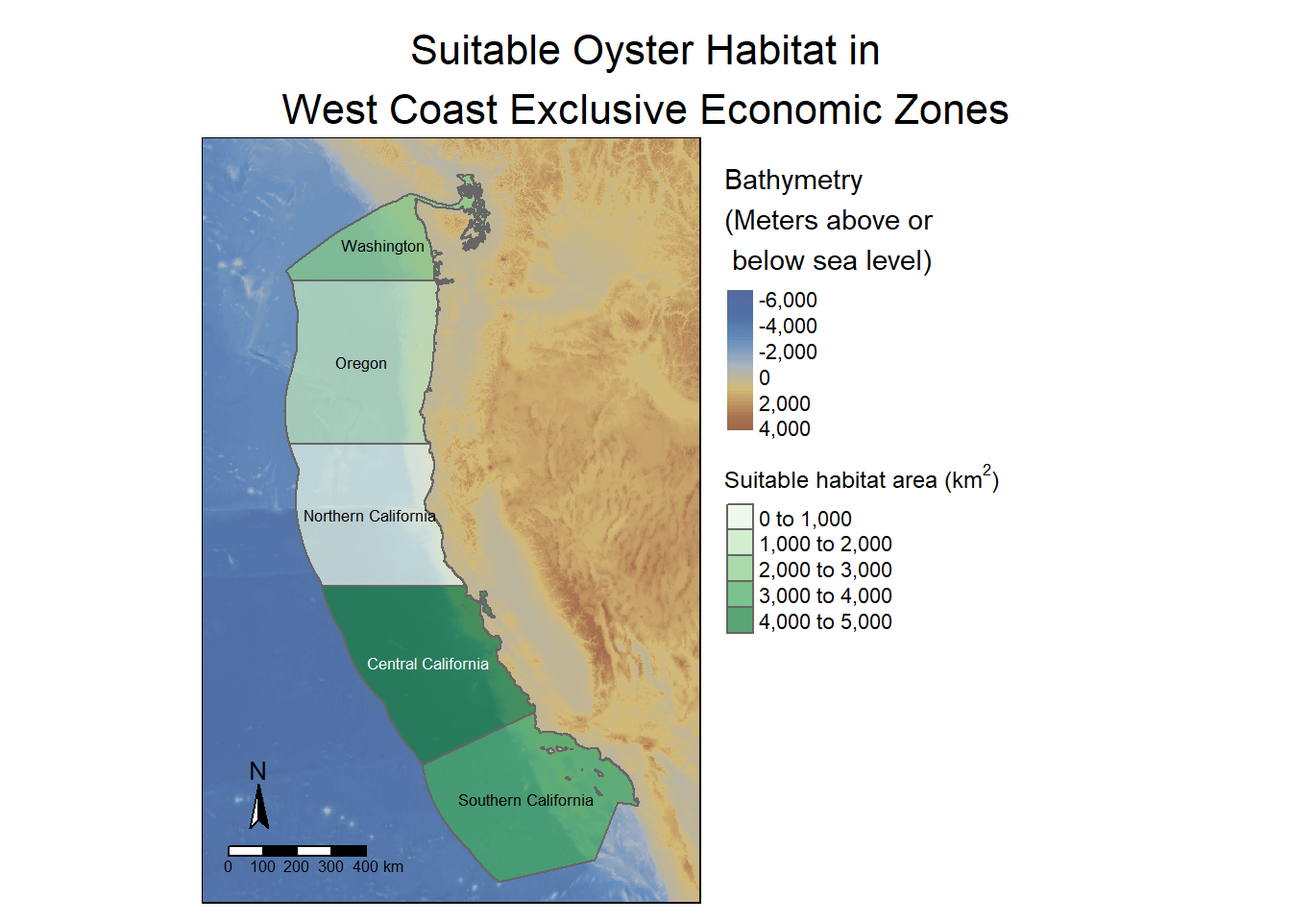
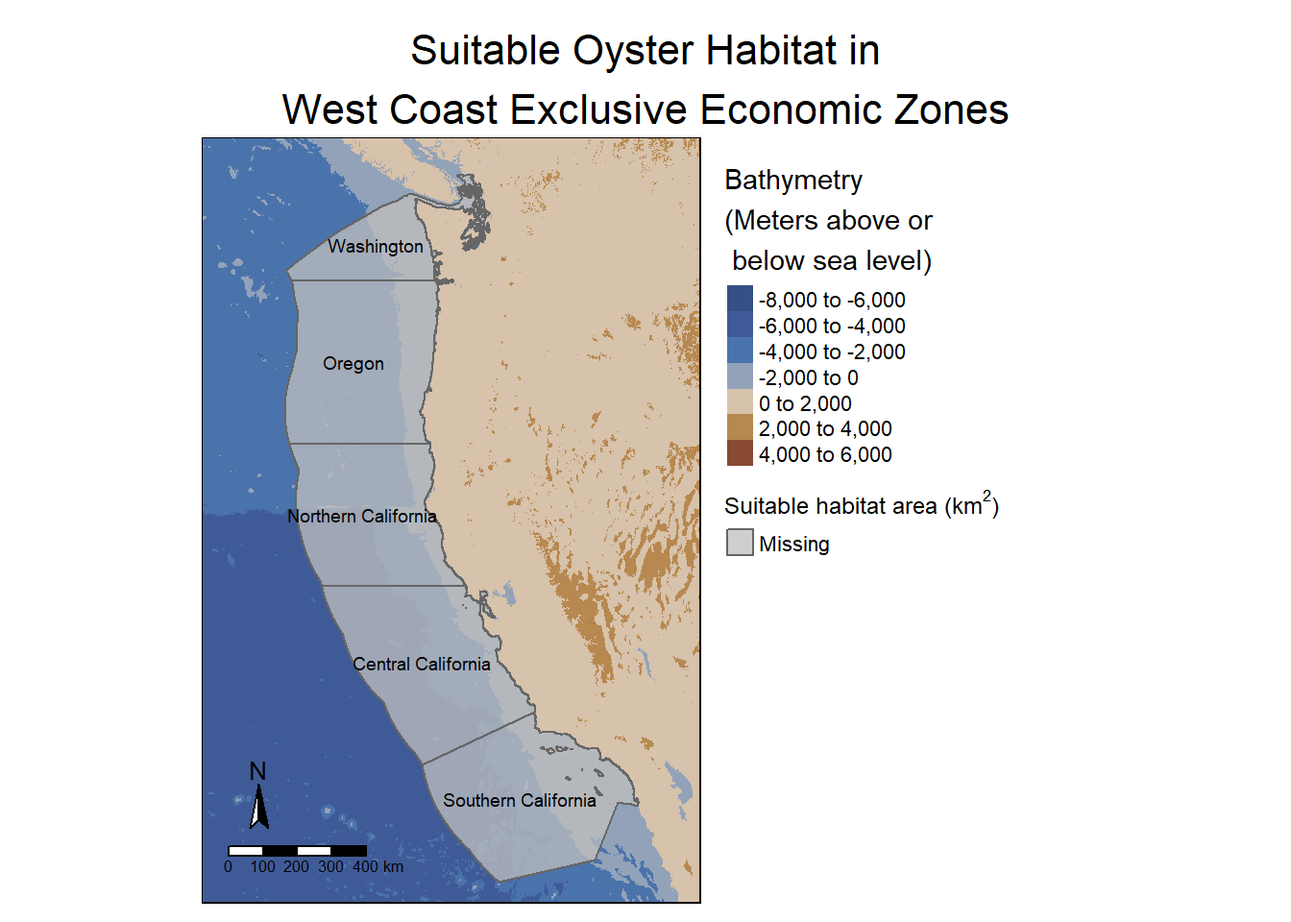
Finish function

Changed region(s): [[0.1562, 0.125, 0.7812, 1.0]]

diff --git a/HW4.html b/HW4.html
@@ -7,7 +7,7 @@
 <meta name="viewport" content="width=device-width, initial-scale=1.0, user-scalable=yes">
 
 <meta name="author" content="Stephen Carroll">
-<meta name="dcterms.date" content="2024-12-06">
+<meta name="dcterms.date" content="2024-12-15">
 
 <title>EDS 223: Homework 4</title>
 <style>
@@ -124,7 +124,7 @@ pre > code.sourceCode > span > a:first-child::before { text-decoration: underlin
     <div>
     <div class="quarto-title-meta-heading">Published</div>
     <div class="quarto-title-meta-contents">
-      <p class="date">December 6, 2024</p>
+      <p class="date">December 15, 2024</p>
     </div>
   </div>
   
@@ -184,16 +184,9 @@ pre > code.sourceCode > span > a:first-child::before { text-decoration: underlin
 <span id="cb3-9"><a href="#cb3-9" aria-hidden="true" tabindex="-1"></a><span class="co"># Add labels to the raster layers</span></span>
 <span id="cb3-10"><a href="#cb3-10" aria-hidden="true" tabindex="-1"></a><span class="fu">names</span>(sst_stack) <span class="ot">&lt;-</span> <span class="fu">c</span>(<span class="st">"sst2008"</span>, <span class="st">"sst2009"</span>, <span class="st">"sst2010"</span>, <span class="st">"sst2011"</span>, <span class="st">"sst2012"</span>)</span>
 <span id="cb3-11"><a href="#cb3-11" aria-hidden="true" tabindex="-1"></a></span>
-<span id="cb3-12"><a href="#cb3-12" aria-hidden="true" tabindex="-1"></a><span class="co"># Preliminary plot</span></span>
-<span id="cb3-13"><a href="#cb3-13" aria-hidden="true" tabindex="-1"></a><span class="fu">plot</span>(sst_stack)</span></code><button title="Copy to Clipboard" class="code-copy-button"><i class="bi"></i></button></pre></div>
+<span id="cb3-12"><a href="#cb3-12" aria-hidden="true" tabindex="-1"></a><span class="co"># # Preliminary plot</span></span>
+<span id="cb3-13"><a href="#cb3-13" aria-hidden="true" tabindex="-1"></a><span class="co"># plot(sst_stack)</span></span></code><button title="Copy to Clipboard" class="code-copy-button"><i class="bi"></i></button></pre></div>
 </details>
-<div class="cell-output-display">
-<div>
-<figure class="figure">
-<p><img src="HW4_files/figure-html/unnamed-chunk-3-1.png" class="img-fluid figure-img" width="672"></p>
-</figure>
-</div>
-</div>
 </div>
 </section>
 <section id="crs-check" class="level2">
@@ -235,7 +228,7 @@ pre > code.sourceCode > span > a:first-child::before { text-decoration: underlin
 <span id="cb5-12"><a href="#cb5-12" aria-hidden="true" tabindex="-1"></a>})</span></code><button title="Copy to Clipboard" class="code-copy-button"><i class="bi"></i></button></pre></div>
 </details>
 <div class="cell-output cell-output-stdout">
-<pre><code>Test passed 😸</code></pre>
+<pre><code>Test passed 🥳</code></pre>
 </div>
 </div>
 </section>
@@ -307,14 +300,6 @@ pre > code.sourceCode > span > a:first-child::before { text-decoration: underlin
 <ul>
 <li>sea surface temperature: 11-30°C</li>
 <li>depth: 0-70 meters below sea level</li>
-</ul>
-<p>Dungeness Crabs</p>
-<ul>
-<li>sea surface temperature 3°C - 19°C, preferred 9°C
-<ul>
-<li>5.8 - 9.8, mean 7.8</li>
-</ul></li>
-<li>depth: 0 - 360 meters below sea level</li>
 </ul>
 <p>Reclassify SST and depth data into locations that are suitable for oysters</p>
 <div class="cell">
@@ -475,20 +460,150 @@ pre > code.sourceCode > span > a:first-child::before { text-decoration: underlin
 <div class="cell">
 <details class="code-fold">
 <summary>Code</summary>
-<div class="sourceCode cell-code" id="cb17"><pre class="sourceCode r code-with-copy"><code class="sourceCode r"><span id="cb17-1"><a href="#cb17-1" aria-hidden="true" tabindex="-1"></a><span class="co"># Create a table for my citations</span></span>
-<span id="cb17-2"><a href="#cb17-2" aria-hidden="true" tabindex="-1"></a>citations_df <span class="ot">=</span> tibble<span class="sc">::</span><span class="fu">tribble</span>(</span>
-<span id="cb17-3"><a href="#cb17-3" aria-hidden="true" tabindex="-1"></a>  <span class="sc">~</span>Data,</span>
-<span id="cb17-4"><a href="#cb17-4" aria-hidden="true" tabindex="-1"></a>  <span class="sc">~</span>Citation,</span>
-<span id="cb17-5"><a href="#cb17-5" aria-hidden="true" tabindex="-1"></a>  <span class="sc">~</span>Accesssed,</span>
-<span id="cb17-6"><a href="#cb17-6" aria-hidden="true" tabindex="-1"></a>  <span class="sc">~</span>Link,</span>
-<span id="cb17-7"><a href="#cb17-7" aria-hidden="true" tabindex="-1"></a> <span class="st">"Sea Surface Temperature Data"</span>, <span class="st">"NOAA Coral Reef Watch. 2019, updated daily. NOAA Coral Reef Watch Version 3.1 Daily 5km Satellite Regional Virtual Station Time Series Data. College Park, Maryland, USA: NOAA Coral Reef Watch."</span>, <span class="st">"11/29/24"</span>, <span class="st">"[NOAA Coral Reef Watch](https://coralreefwatch.noaa.gov/product/5km/index_5km_ssta.php)"</span>,</span>
-<span id="cb17-8"><a href="#cb17-8" aria-hidden="true" tabindex="-1"></a>  <span class="st">"Bathymetry Data"</span>, <span class="st">"GEBCO Compilation Group (2022) GEBCO_2022 Grid (doi:10.5285/e0f0bb80-ab44-2739-e053-6c86abc0289c)"</span>, <span class="st">"11/29/24"</span>, <span class="st">"[GEBCO](https://www.gebco.net/data_and_products/gridded_bathymetry_data/#area)"</span>,</span>
-<span id="cb17-9"><a href="#cb17-9" aria-hidden="true" tabindex="-1"></a>  <span class="st">"Exclusive Economic Zones"</span>, <span class="st">"Flanders Marine Institute (2024): MarineRegions.org."</span>, <span class="st">"11/29/24"</span>, <span class="st">"[Marine Regions](https://www.marineregions.org/eez.php)"</span>,</span>
-<span id="cb17-10"><a href="#cb17-10" aria-hidden="true" tabindex="-1"></a>  <span class="st">"Sea Life Base Aquaculture Data"</span>, <span class="st">"Palomares, M.L.D. and D. Pauly. Editors. 2024. SeaLifeBase. World Wide Web electronic publication. www.sealifebase.org, version (08/2024)."</span>, <span class="st">"11/29/24"</span>, <span class="st">"[Sea Life Base](https://www.sealifebase.ca/search.php)"</span></span>
-<span id="cb17-11"><a href="#cb17-11" aria-hidden="true" tabindex="-1"></a>)</span>
-<span id="cb17-12"><a href="#cb17-12" aria-hidden="true" tabindex="-1"></a></span>
-<span id="cb17-13"><a href="#cb17-13" aria-hidden="true" tabindex="-1"></a>knitr<span class="sc">::</span><span class="fu">kable</span>(citations_df, </span>
-<span id="cb17-14"><a href="#cb17-14" aria-hidden="true" tabindex="-1"></a>             <span class="at">caption =</span> <span class="st">"Data Citations"</span>)</span></code><button title="Copy to Clipboard" class="code-copy-button"><i class="bi"></i></button></pre></div>
+<div class="sourceCode cell-code" id="cb17"><pre class="sourceCode r code-with-copy"><code class="sourceCode r"><span id="cb17-1"><a href="#cb17-1" aria-hidden="true" tabindex="-1"></a>aquaculture_fun <span class="ot">&lt;-</span> <span class="cf">function</span>(species, min_sst, max_sst, min_depth, max_depth){</span>
+<span id="cb17-2"><a href="#cb17-2" aria-hidden="true" tabindex="-1"></a>  </span>
+<span id="cb17-3"><a href="#cb17-3" aria-hidden="true" tabindex="-1"></a>  <span class="co"># Read in EEZ and Depth data</span></span>
+<span id="cb17-4"><a href="#cb17-4" aria-hidden="true" tabindex="-1"></a>  west_coast_eez <span class="ot">&lt;-</span> <span class="fu">read_sf</span>(<span class="fu">here</span>(<span class="st">"data"</span>, <span class="st">"wc_regions_clean.shp"</span>))</span>
+<span id="cb17-5"><a href="#cb17-5" aria-hidden="true" tabindex="-1"></a>  depth <span class="ot">&lt;-</span> terra<span class="sc">::</span><span class="fu">rast</span>(<span class="fu">here</span>(<span class="st">"data"</span>, <span class="st">"depth.tif"</span>))</span>
+<span id="cb17-6"><a href="#cb17-6" aria-hidden="true" tabindex="-1"></a>  </span>
+<span id="cb17-7"><a href="#cb17-7" aria-hidden="true" tabindex="-1"></a>  <span class="co"># Create list of sst files</span></span>
+<span id="cb17-8"><a href="#cb17-8" aria-hidden="true" tabindex="-1"></a>  sst_files <span class="ot">&lt;-</span> <span class="fu">list.files</span>(<span class="fu">here</span>(<span class="st">"data"</span>), </span>
+<span id="cb17-9"><a href="#cb17-9" aria-hidden="true" tabindex="-1"></a>                          <span class="at">pattern =</span> <span class="st">"average"</span>, </span>
+<span id="cb17-10"><a href="#cb17-10" aria-hidden="true" tabindex="-1"></a>                          <span class="at">full.names =</span> <span class="cn">TRUE</span>)</span>
+<span id="cb17-11"><a href="#cb17-11" aria-hidden="true" tabindex="-1"></a>  </span>
+<span id="cb17-12"><a href="#cb17-12" aria-hidden="true" tabindex="-1"></a>  <span class="co"># Read in sst data and store as a raster stack</span></span>
+<span id="cb17-13"><a href="#cb17-13" aria-hidden="true" tabindex="-1"></a>  sst_stack <span class="ot">&lt;-</span> terra<span class="sc">::</span><span class="fu">rast</span>(sst_files)</span>
+<span id="cb17-14"><a href="#cb17-14" aria-hidden="true" tabindex="-1"></a>  </span>
+<span id="cb17-15"><a href="#cb17-15" aria-hidden="true" tabindex="-1"></a>  <span class="co"># Reproject CRS to EPSG:4326</span></span>
+<span id="cb17-16"><a href="#cb17-16" aria-hidden="true" tabindex="-1"></a>  depth <span class="ot">&lt;-</span> <span class="fu">project</span>(depth, <span class="fu">crs</span>(<span class="st">"EPSG:4326"</span>))</span>
+<span id="cb17-17"><a href="#cb17-17" aria-hidden="true" tabindex="-1"></a>  sst_stack <span class="ot">&lt;-</span> <span class="fu">project</span>(sst_stack, <span class="fu">crs</span>(<span class="st">"EPSG:4326"</span>))</span>
+<span id="cb17-18"><a href="#cb17-18" aria-hidden="true" tabindex="-1"></a>  west_coast_eez <span class="ot">&lt;-</span> <span class="fu">st_transform</span>(west_coast_eez, <span class="at">crs =</span> <span class="fu">crs</span>(<span class="st">"EPSG:4326"</span>))</span>
+<span id="cb17-19"><a href="#cb17-19" aria-hidden="true" tabindex="-1"></a>  </span>
+<span id="cb17-20"><a href="#cb17-20" aria-hidden="true" tabindex="-1"></a>  <span class="co"># Find average temperature from 2008-2012 and convert to kelvin</span></span>
+<span id="cb17-21"><a href="#cb17-21" aria-hidden="true" tabindex="-1"></a>  mean_sst <span class="ot">&lt;-</span> <span class="fu">app</span>(sst_stack, <span class="at">fun =</span> mean)</span>
+<span id="cb17-22"><a href="#cb17-22" aria-hidden="true" tabindex="-1"></a>  mean_sst <span class="ot">&lt;-</span> mean_sst <span class="sc">-</span> <span class="fl">273.15</span></span>
+<span id="cb17-23"><a href="#cb17-23" aria-hidden="true" tabindex="-1"></a>  </span>
+<span id="cb17-24"><a href="#cb17-24" aria-hidden="true" tabindex="-1"></a>  <span class="co"># Crop depth to match the geographic extent of sst</span></span>
+<span id="cb17-25"><a href="#cb17-25" aria-hidden="true" tabindex="-1"></a>  depth_crop <span class="ot">&lt;-</span> <span class="fu">crop</span>(depth, sst_stack)</span>
+<span id="cb17-26"><a href="#cb17-26" aria-hidden="true" tabindex="-1"></a>  </span>
+<span id="cb17-27"><a href="#cb17-27" aria-hidden="true" tabindex="-1"></a>  <span class="co"># Re-sample depth to match the resolution of sst</span></span>
+<span id="cb17-28"><a href="#cb17-28" aria-hidden="true" tabindex="-1"></a>  depth_resample <span class="ot">&lt;-</span> <span class="fu">resample</span>(depth_crop, <span class="at">y =</span> mean_sst, <span class="at">method =</span> <span class="st">"near"</span>)</span>
+<span id="cb17-29"><a href="#cb17-29" aria-hidden="true" tabindex="-1"></a>  </span>
+<span id="cb17-30"><a href="#cb17-30" aria-hidden="true" tabindex="-1"></a>  <span class="co"># Create sst reclassification matrix</span></span>
+<span id="cb17-31"><a href="#cb17-31" aria-hidden="true" tabindex="-1"></a>  rcl_sst <span class="ot">&lt;-</span> <span class="fu">matrix</span>(<span class="fu">c</span>(<span class="sc">-</span><span class="cn">Inf</span>, min_sst, <span class="cn">NA</span>,</span>
+<span id="cb17-32"><a href="#cb17-32" aria-hidden="true" tabindex="-1"></a>                      min_sst, max_sst, <span class="dv">1</span>,</span>
+<span id="cb17-33"><a href="#cb17-33" aria-hidden="true" tabindex="-1"></a>                      max_sst, <span class="cn">Inf</span>, <span class="cn">NA</span>),</span>
+<span id="cb17-34"><a href="#cb17-34" aria-hidden="true" tabindex="-1"></a>                    <span class="at">ncol =</span> <span class="dv">3</span>, <span class="at">byrow =</span> <span class="cn">TRUE</span>)</span>
+<span id="cb17-35"><a href="#cb17-35" aria-hidden="true" tabindex="-1"></a>  </span>
+<span id="cb17-36"><a href="#cb17-36" aria-hidden="true" tabindex="-1"></a>  <span class="co"># Use reclassification matrix to reclassify sst raster</span></span>
+<span id="cb17-37"><a href="#cb17-37" aria-hidden="true" tabindex="-1"></a>  reclass_sst <span class="ot">&lt;-</span> <span class="fu">classify</span>(mean_sst, <span class="at">rcl =</span> rcl_sst)</span>
+<span id="cb17-38"><a href="#cb17-38" aria-hidden="true" tabindex="-1"></a>  </span>
+<span id="cb17-39"><a href="#cb17-39" aria-hidden="true" tabindex="-1"></a>  <span class="co"># Create depth reclassification matrix</span></span>
+<span id="cb17-40"><a href="#cb17-40" aria-hidden="true" tabindex="-1"></a>  rcl_depth <span class="ot">&lt;-</span> <span class="fu">matrix</span>(<span class="fu">c</span>(<span class="sc">-</span><span class="cn">Inf</span>, min_depth, <span class="cn">NA</span>,</span>
+<span id="cb17-41"><a href="#cb17-41" aria-hidden="true" tabindex="-1"></a>                        min_depth, max_depth, <span class="dv">1</span>,</span>
+<span id="cb17-42"><a href="#cb17-42" aria-hidden="true" tabindex="-1"></a>                        max_depth, <span class="cn">Inf</span>, <span class="cn">NA</span>),</span>
+<span id="cb17-43"><a href="#cb17-43" aria-hidden="true" tabindex="-1"></a>                      <span class="at">ncol =</span> <span class="dv">3</span>, <span class="at">byrow =</span> <span class="cn">TRUE</span>)</span>
+<span id="cb17-44"><a href="#cb17-44" aria-hidden="true" tabindex="-1"></a>  </span>
+<span id="cb17-45"><a href="#cb17-45" aria-hidden="true" tabindex="-1"></a>  <span class="co"># Use reclassification matrix to reclassify depth raster</span></span>
+<span id="cb17-46"><a href="#cb17-46" aria-hidden="true" tabindex="-1"></a>  reclass_depth <span class="ot">&lt;-</span> <span class="fu">classify</span>(depth_resample, <span class="at">rcl =</span> rcl_depth)</span>
+<span id="cb17-47"><a href="#cb17-47" aria-hidden="true" tabindex="-1"></a>  </span>
+<span id="cb17-48"><a href="#cb17-48" aria-hidden="true" tabindex="-1"></a>  <span class="co"># Find locations that satisfy both SST and depth conditions</span></span>
+<span id="cb17-49"><a href="#cb17-49" aria-hidden="true" tabindex="-1"></a>  suitable_sst_depth <span class="ot">&lt;-</span> <span class="fu">lapp</span>(<span class="fu">c</span>(reclass_sst, reclass_depth), <span class="at">fun =</span> <span class="st">"*"</span>) <span class="co"># Use multiply function. Only cells that both have a 1 will remain a 1</span></span>
+<span id="cb17-50"><a href="#cb17-50" aria-hidden="true" tabindex="-1"></a>  </span>
+<span id="cb17-51"><a href="#cb17-51" aria-hidden="true" tabindex="-1"></a>  <span class="co"># Create a raster of the eez data</span></span>
+<span id="cb17-52"><a href="#cb17-52" aria-hidden="true" tabindex="-1"></a>  west_coast_eez_raster <span class="ot">&lt;-</span> <span class="fu">rasterize</span>(west_coast_eez, </span>
+<span id="cb17-53"><a href="#cb17-53" aria-hidden="true" tabindex="-1"></a>                                     suitable_sst_depth, </span>
+<span id="cb17-54"><a href="#cb17-54" aria-hidden="true" tabindex="-1"></a>                                     <span class="at">field =</span> <span class="st">"rgn"</span>) <span class="co"># Transfer the region variable </span></span>
+<span id="cb17-55"><a href="#cb17-55" aria-hidden="true" tabindex="-1"></a>  </span>
+<span id="cb17-56"><a href="#cb17-56" aria-hidden="true" tabindex="-1"></a>  <span class="co"># Quantify area of grid cells suitable for oysters</span></span>
+<span id="cb17-57"><a href="#cb17-57" aria-hidden="true" tabindex="-1"></a>  suitable_area <span class="ot">&lt;-</span> <span class="fu">cellSize</span>(suitable_sst_depth, <span class="co"># Area that satisfies depth and temperature parameters</span></span>
+<span id="cb17-58"><a href="#cb17-58" aria-hidden="true" tabindex="-1"></a>                            <span class="at">mask =</span> <span class="cn">TRUE</span>, <span class="co"># Keep NAs in output</span></span>
+<span id="cb17-59"><a href="#cb17-59" aria-hidden="true" tabindex="-1"></a>                            <span class="at">unit =</span> <span class="st">"km"</span>) <span class="co"># Match units to eez units</span></span>
+<span id="cb17-60"><a href="#cb17-60" aria-hidden="true" tabindex="-1"></a>  </span>
+<span id="cb17-61"><a href="#cb17-61" aria-hidden="true" tabindex="-1"></a>  <span class="co"># Sum suitable area by eez region</span></span>
+<span id="cb17-62"><a href="#cb17-62" aria-hidden="true" tabindex="-1"></a>  suitable_eez_area <span class="ot">&lt;-</span> <span class="fu">zonal</span>(suitable_area, </span>
+<span id="cb17-63"><a href="#cb17-63" aria-hidden="true" tabindex="-1"></a>                             west_coast_eez_raster,</span>
+<span id="cb17-64"><a href="#cb17-64" aria-hidden="true" tabindex="-1"></a>                             <span class="at">fun =</span> <span class="st">"sum"</span>,</span>
+<span id="cb17-65"><a href="#cb17-65" aria-hidden="true" tabindex="-1"></a>                             <span class="at">na.rm =</span> <span class="cn">TRUE</span>) </span>
+<span id="cb17-66"><a href="#cb17-66" aria-hidden="true" tabindex="-1"></a>  </span>
+<span id="cb17-67"><a href="#cb17-67" aria-hidden="true" tabindex="-1"></a>  <span class="co"># Combine the eez suitable area data with our original eez dataframe</span></span>
+<span id="cb17-68"><a href="#cb17-68" aria-hidden="true" tabindex="-1"></a>  eez_join <span class="ot">&lt;-</span> <span class="fu">left_join</span>(west_coast_eez, suitable_eez_area, <span class="at">by =</span> <span class="st">"rgn"</span>)</span>
+<span id="cb17-69"><a href="#cb17-69" aria-hidden="true" tabindex="-1"></a>  </span>
+<span id="cb17-70"><a href="#cb17-70" aria-hidden="true" tabindex="-1"></a>  <span class="co"># Create a color palette with colorbrewer for bathymetrry data</span></span>
+<span id="cb17-71"><a href="#cb17-71" aria-hidden="true" tabindex="-1"></a>  my_palette2 <span class="ot">&lt;-</span> <span class="fu">rev</span>(<span class="fu">c</span>(<span class="st">'#693829FF'</span>, <span class="st">'#894B33FF'</span>, <span class="st">'#A56A3EFF'</span>, <span class="st">'#CFB267FF'</span>, <span class="st">'#D9C5B6FF'</span>, <span class="st">'#9CA9BAFF'</span>, <span class="st">'#5480B5FF'</span>, <span class="st">'#3D619DFF'</span>, <span class="st">'#405A95FF'</span>, <span class="st">'#345084FF'</span>))</span>
+<span id="cb17-72"><a href="#cb17-72" aria-hidden="true" tabindex="-1"></a>  </span>
+<span id="cb17-73"><a href="#cb17-73" aria-hidden="true" tabindex="-1"></a>  </span>
+<span id="cb17-74"><a href="#cb17-74" aria-hidden="true" tabindex="-1"></a>  <span class="fu">tm_shape</span>(depth_crop) <span class="sc">+</span></span>
+<span id="cb17-75"><a href="#cb17-75" aria-hidden="true" tabindex="-1"></a>    <span class="fu">tm_raster</span>(<span class="at">palette =</span> my_palette2,</span>
+<span id="cb17-76"><a href="#cb17-76" aria-hidden="true" tabindex="-1"></a>              <span class="at">title =</span> <span class="st">"Bathymetry</span><span class="sc">\n</span><span class="st">(Meters above or</span><span class="sc">\n</span><span class="st"> below sea level)"</span>,</span>
+<span id="cb17-77"><a href="#cb17-77" aria-hidden="true" tabindex="-1"></a>              <span class="at">alpha =</span> <span class="dv">1</span>,</span>
+<span id="cb17-78"><a href="#cb17-78" aria-hidden="true" tabindex="-1"></a>              <span class="at">stretch.palette =</span> <span class="cn">FALSE</span>,</span>
+<span id="cb17-79"><a href="#cb17-79" aria-hidden="true" tabindex="-1"></a>              <span class="at">midpoint =</span> <span class="dv">0</span>, </span>
+<span id="cb17-80"><a href="#cb17-80" aria-hidden="true" tabindex="-1"></a>              <span class="at">legend.show =</span> <span class="cn">TRUE</span>) <span class="sc">+</span></span>
+<span id="cb17-81"><a href="#cb17-81" aria-hidden="true" tabindex="-1"></a>    <span class="fu">tm_shape</span>(eez_join, </span>
+<span id="cb17-82"><a href="#cb17-82" aria-hidden="true" tabindex="-1"></a>             <span class="at">raster.downsample =</span> <span class="cn">TRUE</span>) <span class="sc">+</span> <span class="co"># Re-sample to lower resolution</span></span>
+<span id="cb17-83"><a href="#cb17-83" aria-hidden="true" tabindex="-1"></a>    <span class="fu">tm_polygons</span>(<span class="at">col =</span> <span class="st">"area"</span>,</span>
+<span id="cb17-84"><a href="#cb17-84" aria-hidden="true" tabindex="-1"></a>                <span class="at">palette =</span> <span class="st">"Greens"</span>,</span>
+<span id="cb17-85"><a href="#cb17-85" aria-hidden="true" tabindex="-1"></a>                <span class="at">alpha =</span> <span class="fl">0.75</span>,</span>
+<span id="cb17-86"><a href="#cb17-86" aria-hidden="true" tabindex="-1"></a>                <span class="at">title =</span> <span class="fu">expression</span>(<span class="st">"Suitable habitat area (km"</span><span class="sc">^</span><span class="dv">2</span><span class="sc">*</span><span class="st">")"</span>)) <span class="sc">+</span> <span class="co"># Write units as an expression</span></span>
+<span id="cb17-87"><a href="#cb17-87" aria-hidden="true" tabindex="-1"></a>    <span class="fu">tm_text</span>(<span class="st">"rgn"</span>,</span>
+<span id="cb17-88"><a href="#cb17-88" aria-hidden="true" tabindex="-1"></a>            <span class="at">xmod =</span> <span class="sc">-</span><span class="fl">0.2</span>,</span>
+<span id="cb17-89"><a href="#cb17-89" aria-hidden="true" tabindex="-1"></a>            <span class="at">size =</span> <span class="fl">0.6</span>,) <span class="sc">+</span> <span class="co"># Label each region</span></span>
+<span id="cb17-90"><a href="#cb17-90" aria-hidden="true" tabindex="-1"></a>    <span class="fu">tm_compass</span>(<span class="at">size =</span> <span class="fl">1.5</span>,</span>
+<span id="cb17-91"><a href="#cb17-91" aria-hidden="true" tabindex="-1"></a>               <span class="at">position =</span> <span class="fu">c</span>(<span class="st">"left"</span>, <span class="st">"bottom"</span>)) <span class="sc">+</span></span>
+<span id="cb17-92"><a href="#cb17-92" aria-hidden="true" tabindex="-1"></a>    <span class="fu">tm_scale_bar</span>(<span class="at">position =</span> <span class="fu">c</span>(<span class="st">"left"</span>, <span class="st">"bottom"</span>)) <span class="sc">+</span></span>
+<span id="cb17-93"><a href="#cb17-93" aria-hidden="true" tabindex="-1"></a>    <span class="fu">tm_layout</span>(<span class="at">legend.outside =</span> <span class="cn">TRUE</span>,</span>
+<span id="cb17-94"><a href="#cb17-94" aria-hidden="true" tabindex="-1"></a>              <span class="at">frame =</span> <span class="cn">TRUE</span>,</span>
+<span id="cb17-95"><a href="#cb17-95" aria-hidden="true" tabindex="-1"></a>              <span class="at">main.title =</span> <span class="st">"Suitable Oyster Habitat in</span><span class="sc">\n</span><span class="st">West Coast Exclusive Economic Zones"</span>,</span>
+<span id="cb17-96"><a href="#cb17-96" aria-hidden="true" tabindex="-1"></a>              <span class="at">main.title.size =</span> <span class="fl">1.35</span>,</span>
+<span id="cb17-97"><a href="#cb17-97" aria-hidden="true" tabindex="-1"></a>              <span class="at">main.title.position =</span> <span class="fu">c</span>(<span class="st">"center"</span>, <span class="st">"top"</span>),</span>
+<span id="cb17-98"><a href="#cb17-98" aria-hidden="true" tabindex="-1"></a>              <span class="at">inner.margins =</span> <span class="fu">c</span>(<span class="dv">0</span>, <span class="dv">0</span>, <span class="dv">0</span>, <span class="dv">0</span>)) <span class="co"># Fit map to extent of frame</span></span>
+<span id="cb17-99"><a href="#cb17-99" aria-hidden="true" tabindex="-1"></a>  </span>
+<span id="cb17-100"><a href="#cb17-100" aria-hidden="true" tabindex="-1"></a>}</span></code><button title="Copy to Clipboard" class="code-copy-button"><i class="bi"></i></button></pre></div>
+</details>
+</div>
+<p>Dungeness Crabs</p>
+<ul>
+<li>sea surface temperature 3°C - 19°C, preferred 9°C</li>
+<li>5.8 - 9.8, mean 7.8</li>
+<li>depth: 0 - 360 meters below sea level</li>
+</ul>
+<div class="cell">
+<details class="code-fold">
+<summary>Code</summary>
+<div class="sourceCode cell-code" id="cb18"><pre class="sourceCode r code-with-copy"><code class="sourceCode r"><span id="cb18-1"><a href="#cb18-1" aria-hidden="true" tabindex="-1"></a><span class="fu">aquaculture_fun</span>(<span class="st">"Dungeness Crab"</span>, <span class="dv">3</span>, <span class="dv">19</span>, <span class="fl">5.8</span>, <span class="fl">9.8</span>)</span></code><button title="Copy to Clipboard" class="code-copy-button"><i class="bi"></i></button></pre></div>
+</details>
+<div class="cell-output cell-output-stdout">
+<pre><code>
+|---------|---------|---------|---------|
+=========================================
+                                          </code></pre>
+</div>
+<div class="cell-output-display">
+<div>
+<figure class="figure">
+<p><img src="HW4_files/figure-html/unnamed-chunk-16-1.png" class="img-fluid figure-img" width="672"></p>
+</figure>
+</div>
+</div>
+</div>
+<div class="cell">
+<details class="code-fold">
+<summary>Code</summary>
+<div class="sourceCode cell-code" id="cb20"><pre class="sourceCode r code-with-copy"><code class="sourceCode r"><span id="cb20-1"><a href="#cb20-1" aria-hidden="true" tabindex="-1"></a><span class="co"># Create a table for my citations</span></span>
+<span id="cb20-2"><a href="#cb20-2" aria-hidden="true" tabindex="-1"></a>citations_df <span class="ot">=</span> tibble<span class="sc">::</span><span class="fu">tribble</span>(</span>
+<span id="cb20-3"><a href="#cb20-3" aria-hidden="true" tabindex="-1"></a>  <span class="sc">~</span>Data,</span>
+<span id="cb20-4"><a href="#cb20-4" aria-hidden="true" tabindex="-1"></a>  <span class="sc">~</span>Citation,</span>
+<span id="cb20-5"><a href="#cb20-5" aria-hidden="true" tabindex="-1"></a>  <span class="sc">~</span>Accesssed,</span>
+<span id="cb20-6"><a href="#cb20-6" aria-hidden="true" tabindex="-1"></a>  <span class="sc">~</span>Link,</span>
+<span id="cb20-7"><a href="#cb20-7" aria-hidden="true" tabindex="-1"></a> <span class="st">"Sea Surface Temperature Data"</span>, <span class="st">"NOAA Coral Reef Watch. 2019, updated daily. NOAA Coral Reef Watch Version 3.1 Daily 5km Satellite Regional Virtual Station Time Series Data. College Park, Maryland, USA: NOAA Coral Reef Watch."</span>, <span class="st">"11/29/24"</span>, <span class="st">"[NOAA Coral Reef Watch](https://coralreefwatch.noaa.gov/product/5km/index_5km_ssta.php)"</span>,</span>
+<span id="cb20-8"><a href="#cb20-8" aria-hidden="true" tabindex="-1"></a>  <span class="st">"Bathymetry Data"</span>, <span class="st">"GEBCO Compilation Group (2022) GEBCO_2022 Grid (doi:10.5285/e0f0bb80-ab44-2739-e053-6c86abc0289c)"</span>, <span class="st">"11/29/24"</span>, <span class="st">"[GEBCO](https://www.gebco.net/data_and_products/gridded_bathymetry_data/#area)"</span>,</span>
+<span id="cb20-9"><a href="#cb20-9" aria-hidden="true" tabindex="-1"></a>  <span class="st">"Exclusive Economic Zones"</span>, <span class="st">"Flanders Marine Institute (2024): MarineRegions.org."</span>, <span class="st">"11/29/24"</span>, <span class="st">"[Marine Regions](https://www.marineregions.org/eez.php)"</span>,</span>
+<span id="cb20-10"><a href="#cb20-10" aria-hidden="true" tabindex="-1"></a>  <span class="st">"Sea Life Base Aquaculture Data"</span>, <span class="st">"Palomares, M.L.D. and D. Pauly. Editors. 2024. SeaLifeBase. World Wide Web electronic publication. www.sealifebase.org, version (08/2024)."</span>, <span class="st">"11/29/24"</span>, <span class="st">"[Sea Life Base](https://www.sealifebase.ca/search.php)"</span></span>
+<span id="cb20-11"><a href="#cb20-11" aria-hidden="true" tabindex="-1"></a>)</span>
+<span id="cb20-12"><a href="#cb20-12" aria-hidden="true" tabindex="-1"></a></span>
+<span id="cb20-13"><a href="#cb20-13" aria-hidden="true" tabindex="-1"></a>knitr<span class="sc">::</span><span class="fu">kable</span>(citations_df, </span>
+<span id="cb20-14"><a href="#cb20-14" aria-hidden="true" tabindex="-1"></a>             <span class="at">caption =</span> <span class="st">"Data Citations"</span>)</span></code><button title="Copy to Clipboard" class="code-copy-button"><i class="bi"></i></button></pre></div>
 </details>
 <div class="cell-output-display">
 <table class="caption-top table table-sm table-striped small">
